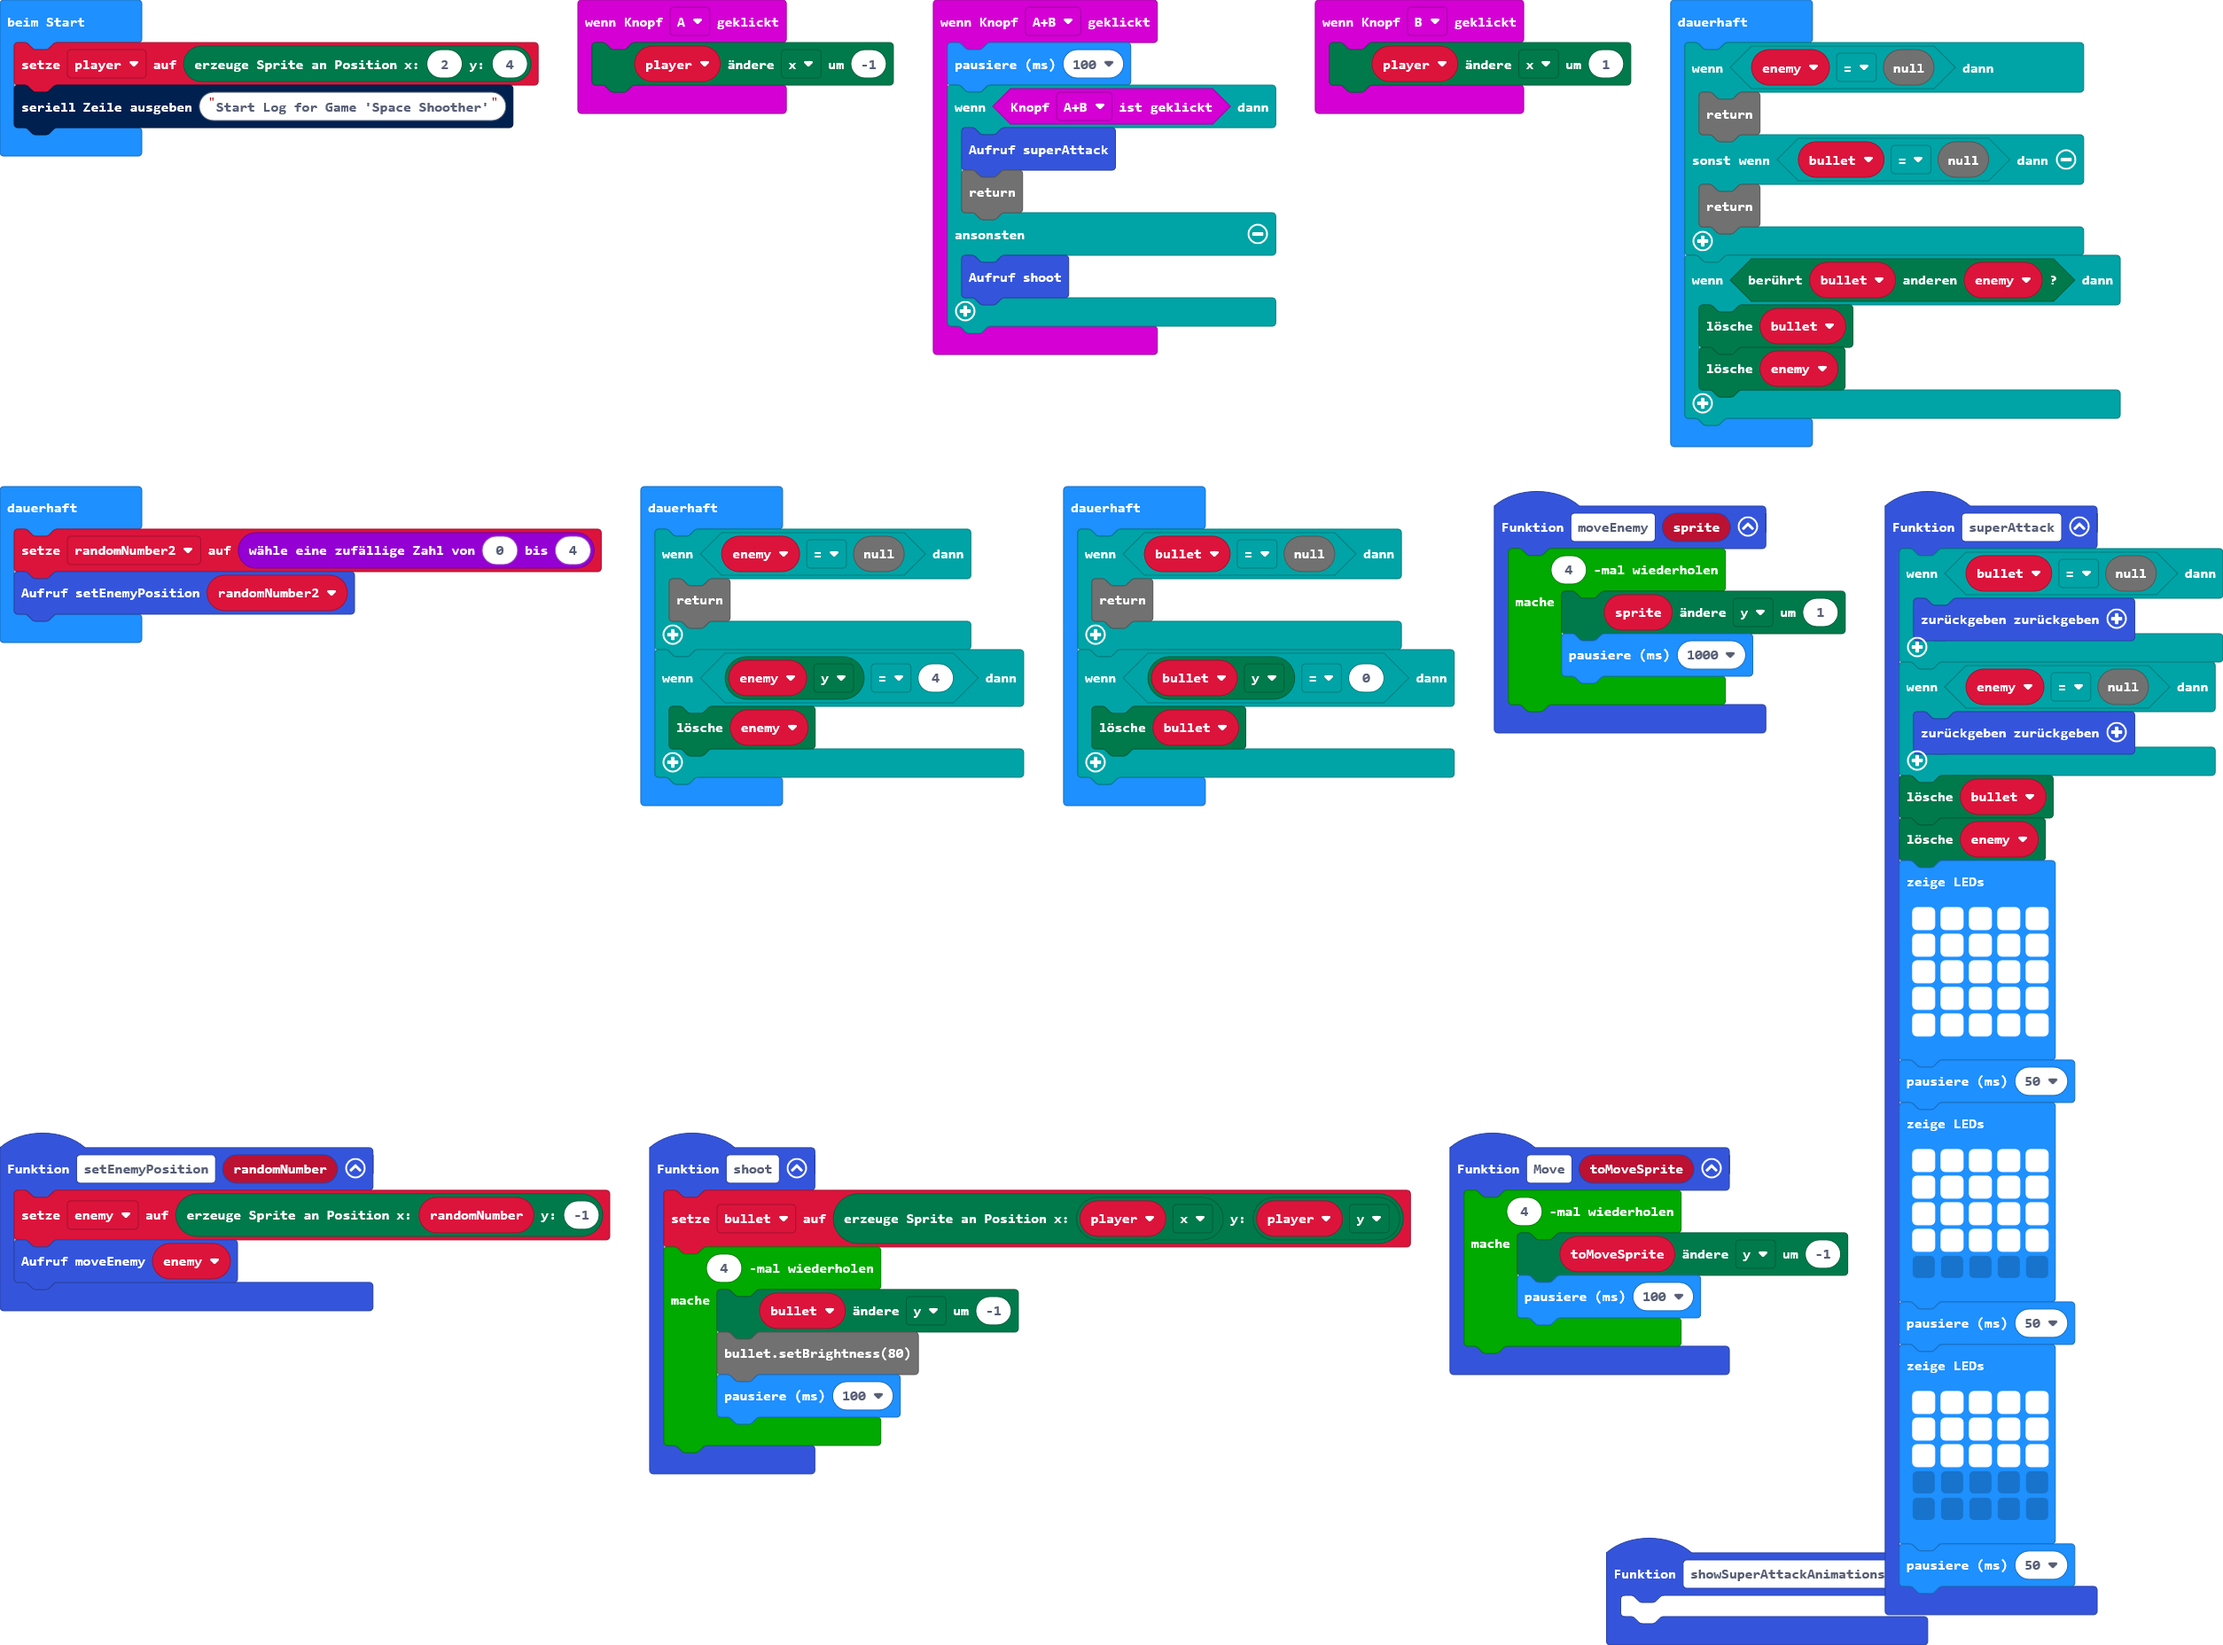
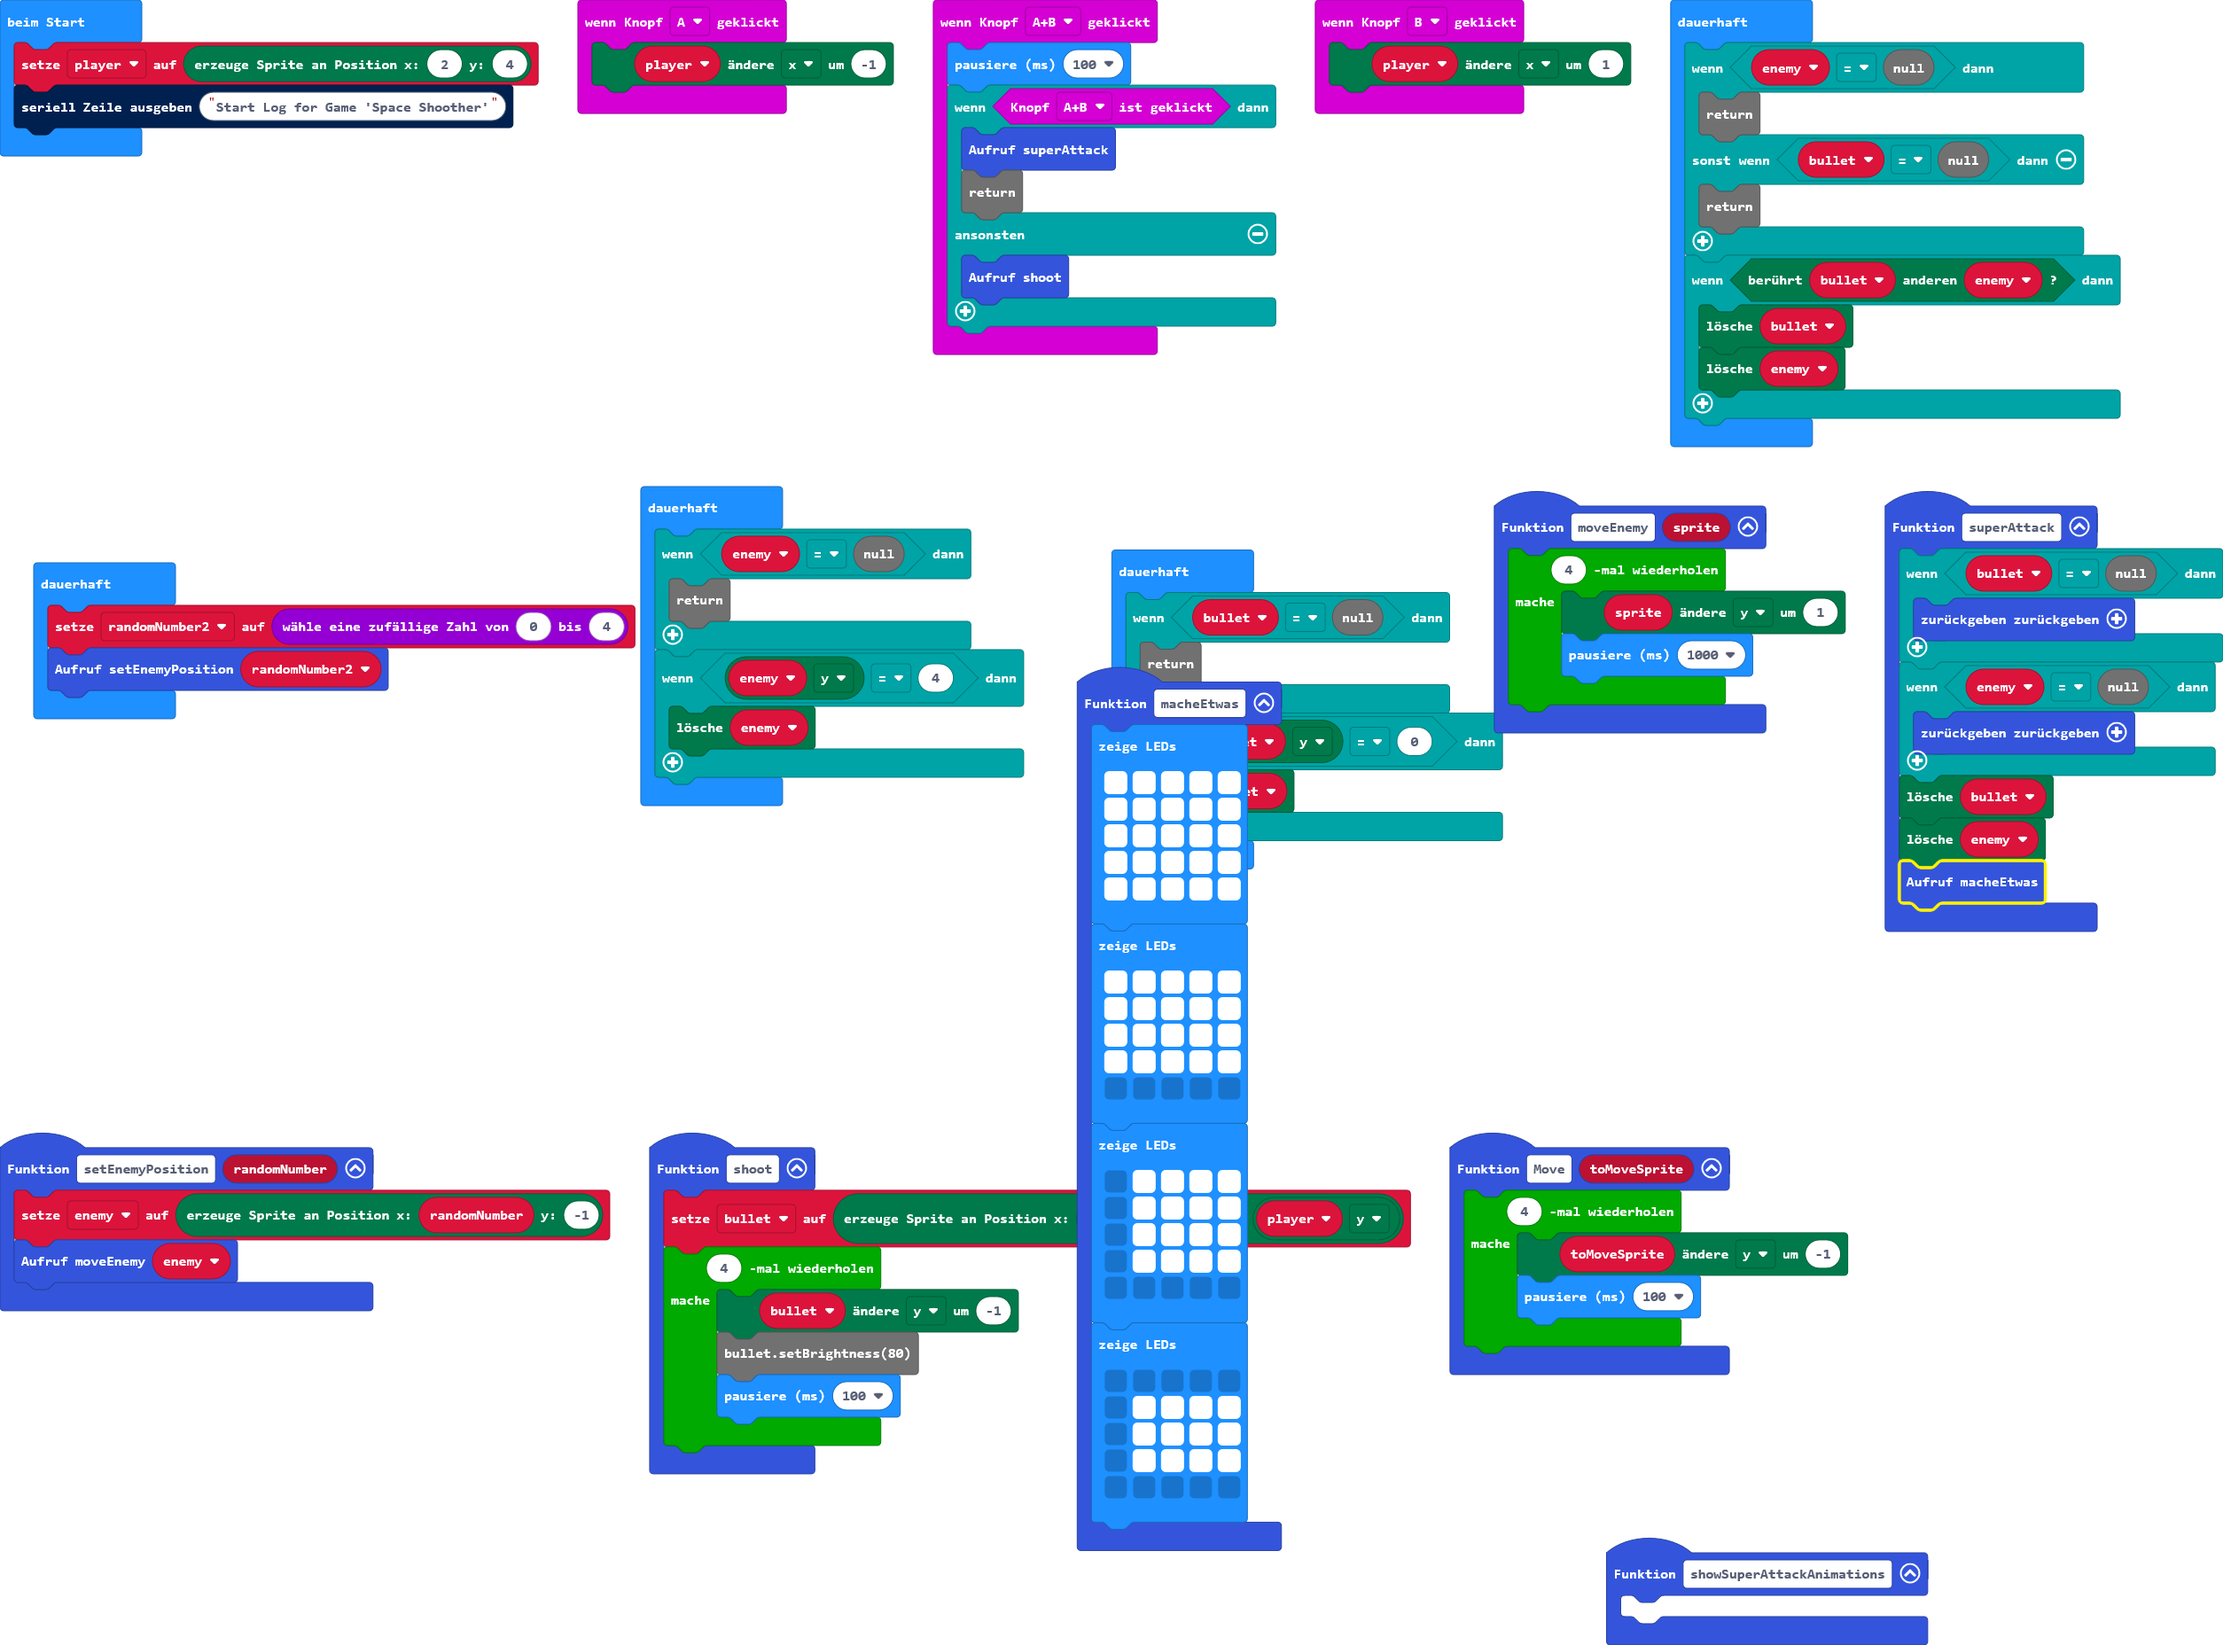
Aktualisiere main.blocks, main.ts

Changed region(s): [[0.4665, 0.2812, 0.6842, 0.9688], [0.8397, 0.5, 0.9641, 1.0], [0.0, 0.2812, 0.311, 0.4375]]

diff --git a/main.ts b/main.ts
@@ -1,3 +1,33 @@
+function macheEtwas () {
+    basic.showLeds(`
+        # # # # #
+        # # # # #
+        # # # # #
+        # # # # #
+        # # # # #
+        `)
+    basic.showLeds(`
+        # # # # #
+        # # # # #
+        # # # # #
+        # # # # #
+        . . . . .
+        `)
+    basic.showLeds(`
+        . # # # #
+        . # # # #
+        . # # # #
+        . # # # #
+        . . . . .
+        `)
+    basic.showLeds(`
+        . . . . .
+        . # # # #
+        . # # # #
+        . # # # #
+        . . . . .
+        `)
+}
 input.onButtonPressed(Button.A, function () {
     player.change(LedSpriteProperty.X, -1)
 })
@@ -27,30 +57,7 @@ function superAttack () {
     }
     bullet.delete()
     enemy.delete()
-    basic.showLeds(`
-        # # # # #
-        # # # # #
-        # # # # #
-        # # # # #
-        # # # # #
-        `)
-    basic.pause(50)
-    basic.showLeds(`
-        # # # # #
-        # # # # #
-        # # # # #
-        # # # # #
-        . . . . .
-        `)
-    basic.pause(50)
-    basic.showLeds(`
-        # # # # #
-        # # # # #
-        # # # # #
-        . . . . .
-        . . . . .
-        `)
-    basic.pause(50)
+    macheEtwas()
 }
 input.onButtonPressed(Button.AB, function () {
     basic.pause(100)
@@ -92,16 +99,16 @@ basic.forever(function () {
     }
 })
 basic.forever(function () {
-    randomNumber2 = randint(0, 4)
-    setEnemyPosition(randomNumber2)
-})
-basic.forever(function () {
     if (enemy == null) {
         return
     }
     if (enemy.get(LedSpriteProperty.Y) == 4) {
         enemy.delete()
     }
+})
+basic.forever(function () {
+    randomNumber2 = randint(0, 4)
+    setEnemyPosition(randomNumber2)
 })
 basic.forever(function () {
     if (bullet == null) {
